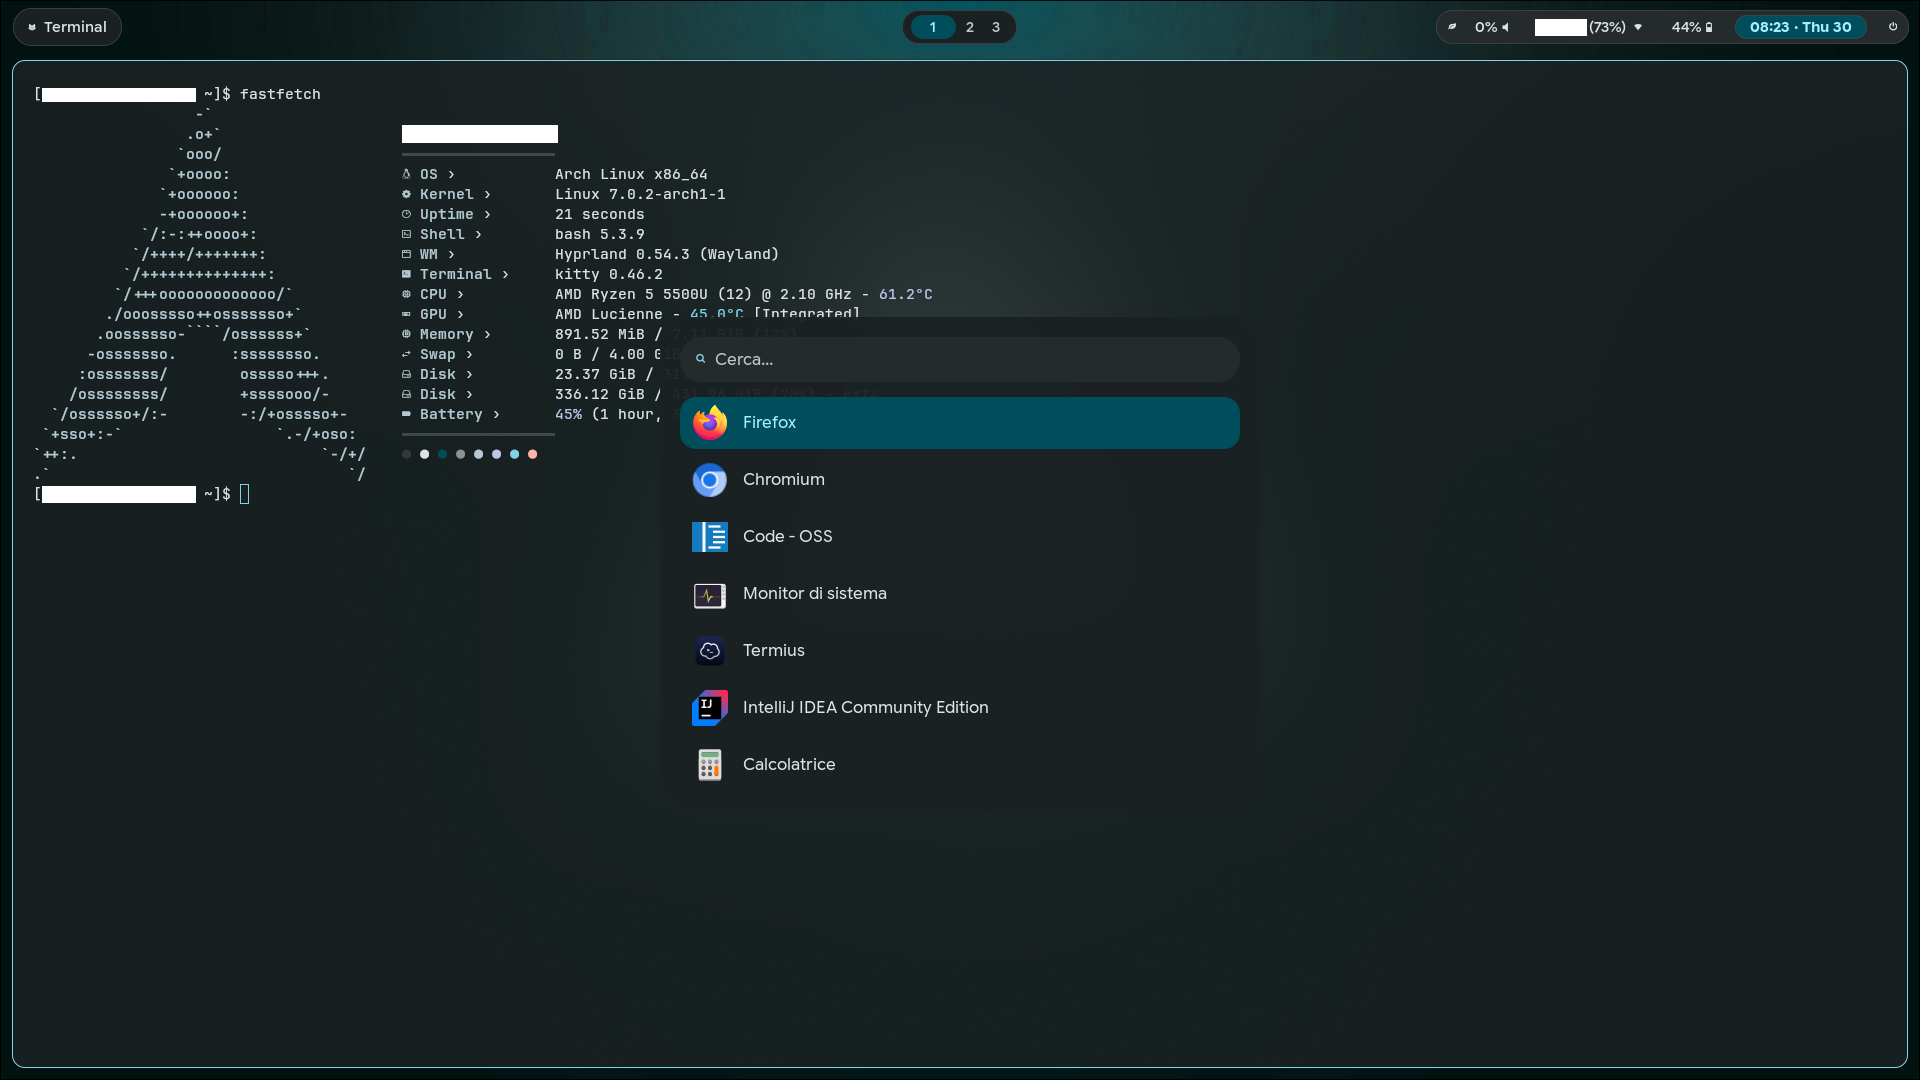
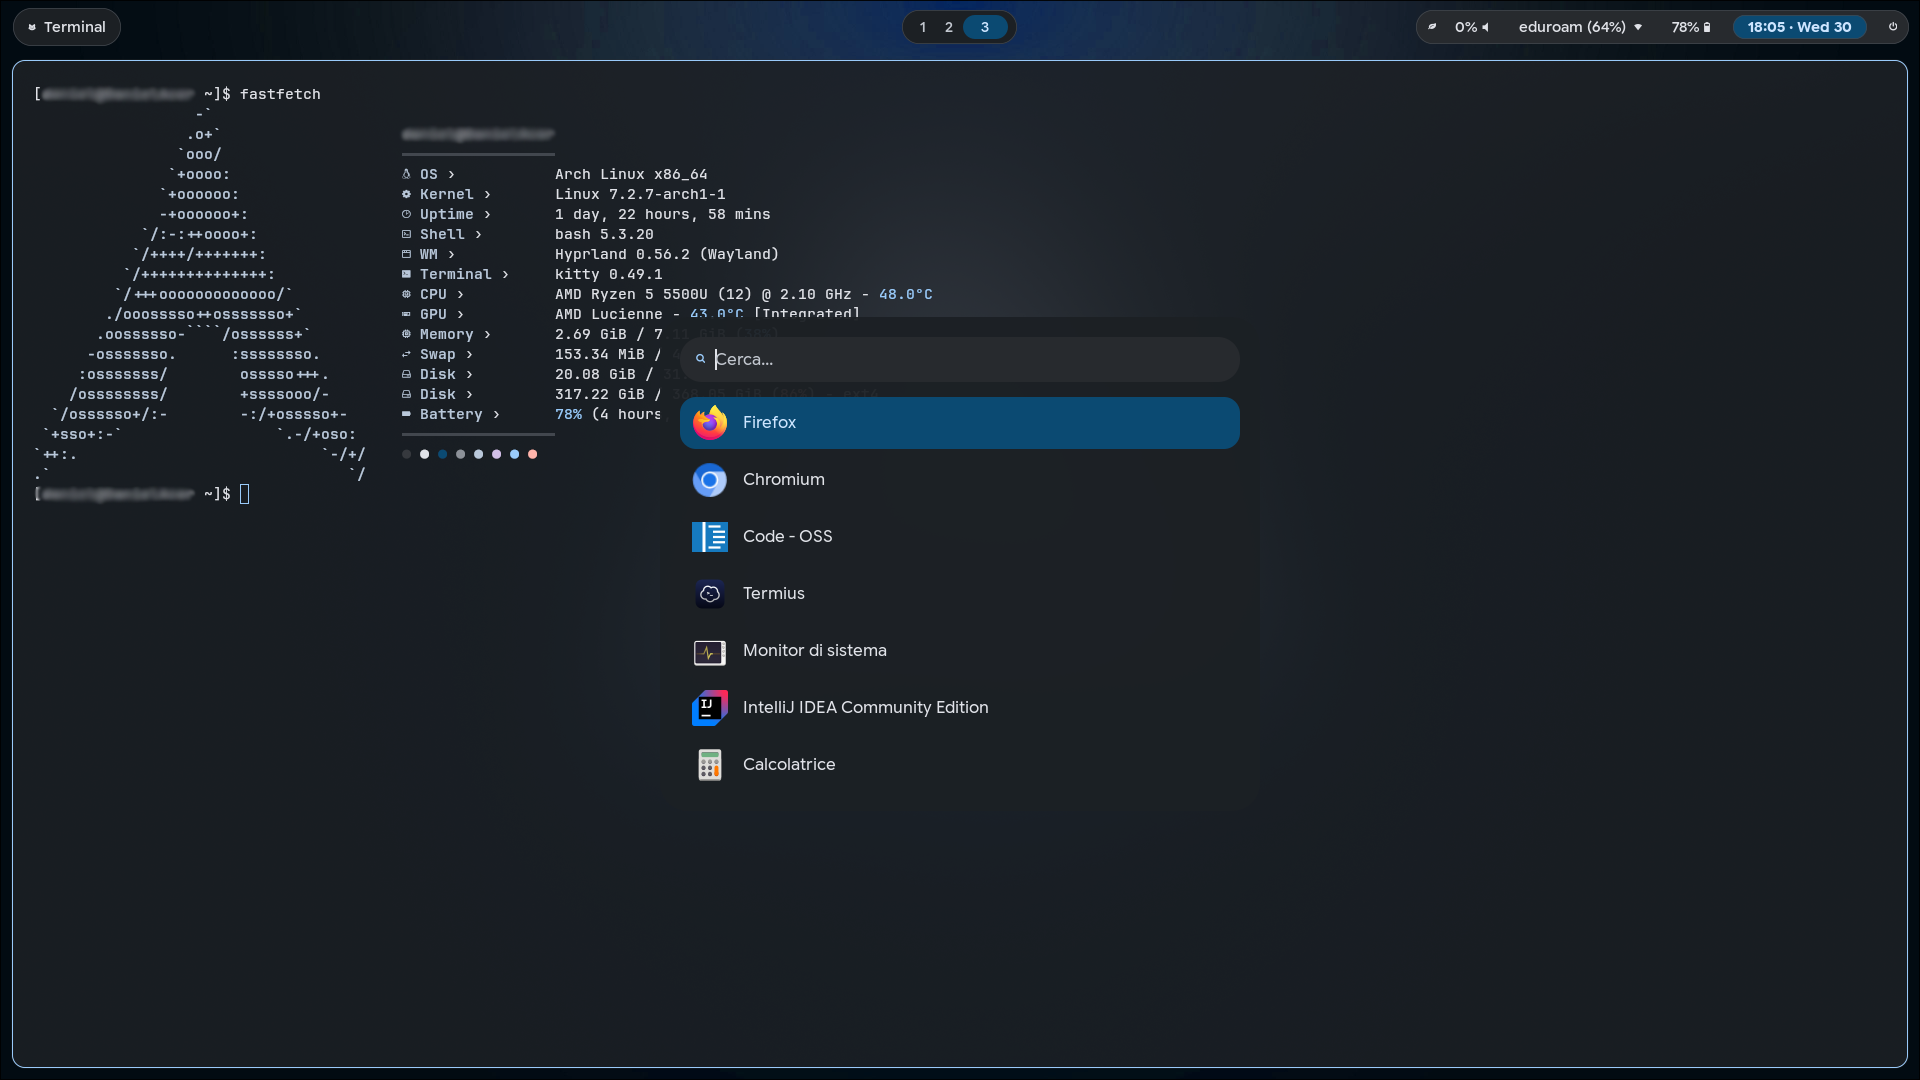
Recover Hyprlock colours + new wallpaper & colour palette

diff --git a/gtk-3.0/gtk.css b/gtk-3.0/gtk.css
@@ -1,24 +1,24 @@
-@define-color accent_color #84d2e6;
-@define-color accent_bg_color #84d2e6;
-@define-color accent_fg_color #003640;
+@define-color accent_color #9acbfa;
+@define-color accent_bg_color #9acbfa;
+@define-color accent_fg_color #003352;
 
-@define-color window_bg_color #0f1416;
-@define-color window_fg_color #dee3e5;
+@define-color window_bg_color #101418;
+@define-color window_fg_color #e0e2e8;
 
-@define-color view_bg_color #171c1e;
-@define-color view_fg_color #dee3e5;
+@define-color view_bg_color #181c20;
+@define-color view_fg_color #e0e2e8;
 
-@define-color headerbar_bg_color #1b2122;
-@define-color headerbar_fg_color #dee3e5;
-@define-color headerbar_border_color #3f484b;
+@define-color headerbar_bg_color #1c2024;
+@define-color headerbar_fg_color #e0e2e8;
+@define-color headerbar_border_color #42474e;
 @define-color headerbar_backdrop_color @window_bg_color;
 
-@define-color card_bg_color #252b2d;
-@define-color card_fg_color #dee3e5;
-@define-color card_border_color #3f484b;
+@define-color card_bg_color #272a2e;
+@define-color card_fg_color #e0e2e8;
+@define-color card_border_color #42474e;
 
-@define-color popover_bg_color #252b2d;
-@define-color popover_fg_color #dee3e5;
+@define-color popover_bg_color #272a2e;
+@define-color popover_fg_color #e0e2e8;
 
-@define-color dialog_bg_color #252b2d;
-@define-color dialog_fg_color #dee3e5;
+@define-color dialog_bg_color #272a2e;
+@define-color dialog_fg_color #e0e2e8;

diff --git a/gtk-4.0/gtk.css b/gtk-4.0/gtk.css
@@ -1,24 +1,24 @@
-@define-color accent_color #84d2e6;
-@define-color accent_bg_color #84d2e6;
-@define-color accent_fg_color #003640;
+@define-color accent_color #9acbfa;
+@define-color accent_bg_color #9acbfa;
+@define-color accent_fg_color #003352;
 
-@define-color window_bg_color #0f1416;
-@define-color window_fg_color #dee3e5;
+@define-color window_bg_color #101418;
+@define-color window_fg_color #e0e2e8;
 
-@define-color view_bg_color #171c1e;
-@define-color view_fg_color #dee3e5;
+@define-color view_bg_color #181c20;
+@define-color view_fg_color #e0e2e8;
 
-@define-color headerbar_bg_color #1b2122;
-@define-color headerbar_fg_color #dee3e5;
-@define-color headerbar_border_color #3f484b;
+@define-color headerbar_bg_color #1c2024;
+@define-color headerbar_fg_color #e0e2e8;
+@define-color headerbar_border_color #42474e;
 @define-color headerbar_backdrop_color @window_bg_color;
 
-@define-color card_bg_color #252b2d;
-@define-color card_fg_color #dee3e5;
-@define-color card_border_color #3f484b;
+@define-color card_bg_color #272a2e;
+@define-color card_fg_color #e0e2e8;
+@define-color card_border_color #42474e;
 
-@define-color popover_bg_color #252b2d;
-@define-color popover_fg_color #dee3e5;
+@define-color popover_bg_color #272a2e;
+@define-color popover_fg_color #e0e2e8;
 
-@define-color dialog_bg_color #252b2d;
-@define-color dialog_fg_color #dee3e5;
+@define-color dialog_bg_color #272a2e;
+@define-color dialog_fg_color #e0e2e8;

diff --git a/waybar/colors.css b/waybar/colors.css
@@ -1,14 +1,14 @@
-@define-color primary #84d2e6;
-@define-color onPrimary #003640;
-@define-color primaryContainer #004e5c;
-@define-color onPrimaryContainer #aaedff;
-@define-color secondaryContainer #334a51;
-@define-color onSecondaryContainer #cee7ee;
-@define-color surface #0f1416;
-@define-color onSurface #dee3e5;
-@define-color onSurfaceVariant #bfc8cb;
-@define-color surfaceContainer #1b2122;
-@define-color surfaceContainerHigh #252b2d;
+@define-color primary #9acbfa;
+@define-color onPrimary #003352;
+@define-color primaryContainer #0b4a72;
+@define-color onPrimaryContainer #cde5ff;
+@define-color secondaryContainer #3a4857;
+@define-color onSecondaryContainer #d5e4f6;
+@define-color surface #101418;
+@define-color onSurface #e0e2e8;
+@define-color onSurfaceVariant #c2c7cf;
+@define-color surfaceContainer #1c2024;
+@define-color surfaceContainerHigh #272a2e;
 @define-color errorContainer #93000a;
 @define-color onErrorContainer #ffdad6;
-@define-color outlineVariant #3f484b;
+@define-color outlineVariant #42474e;
